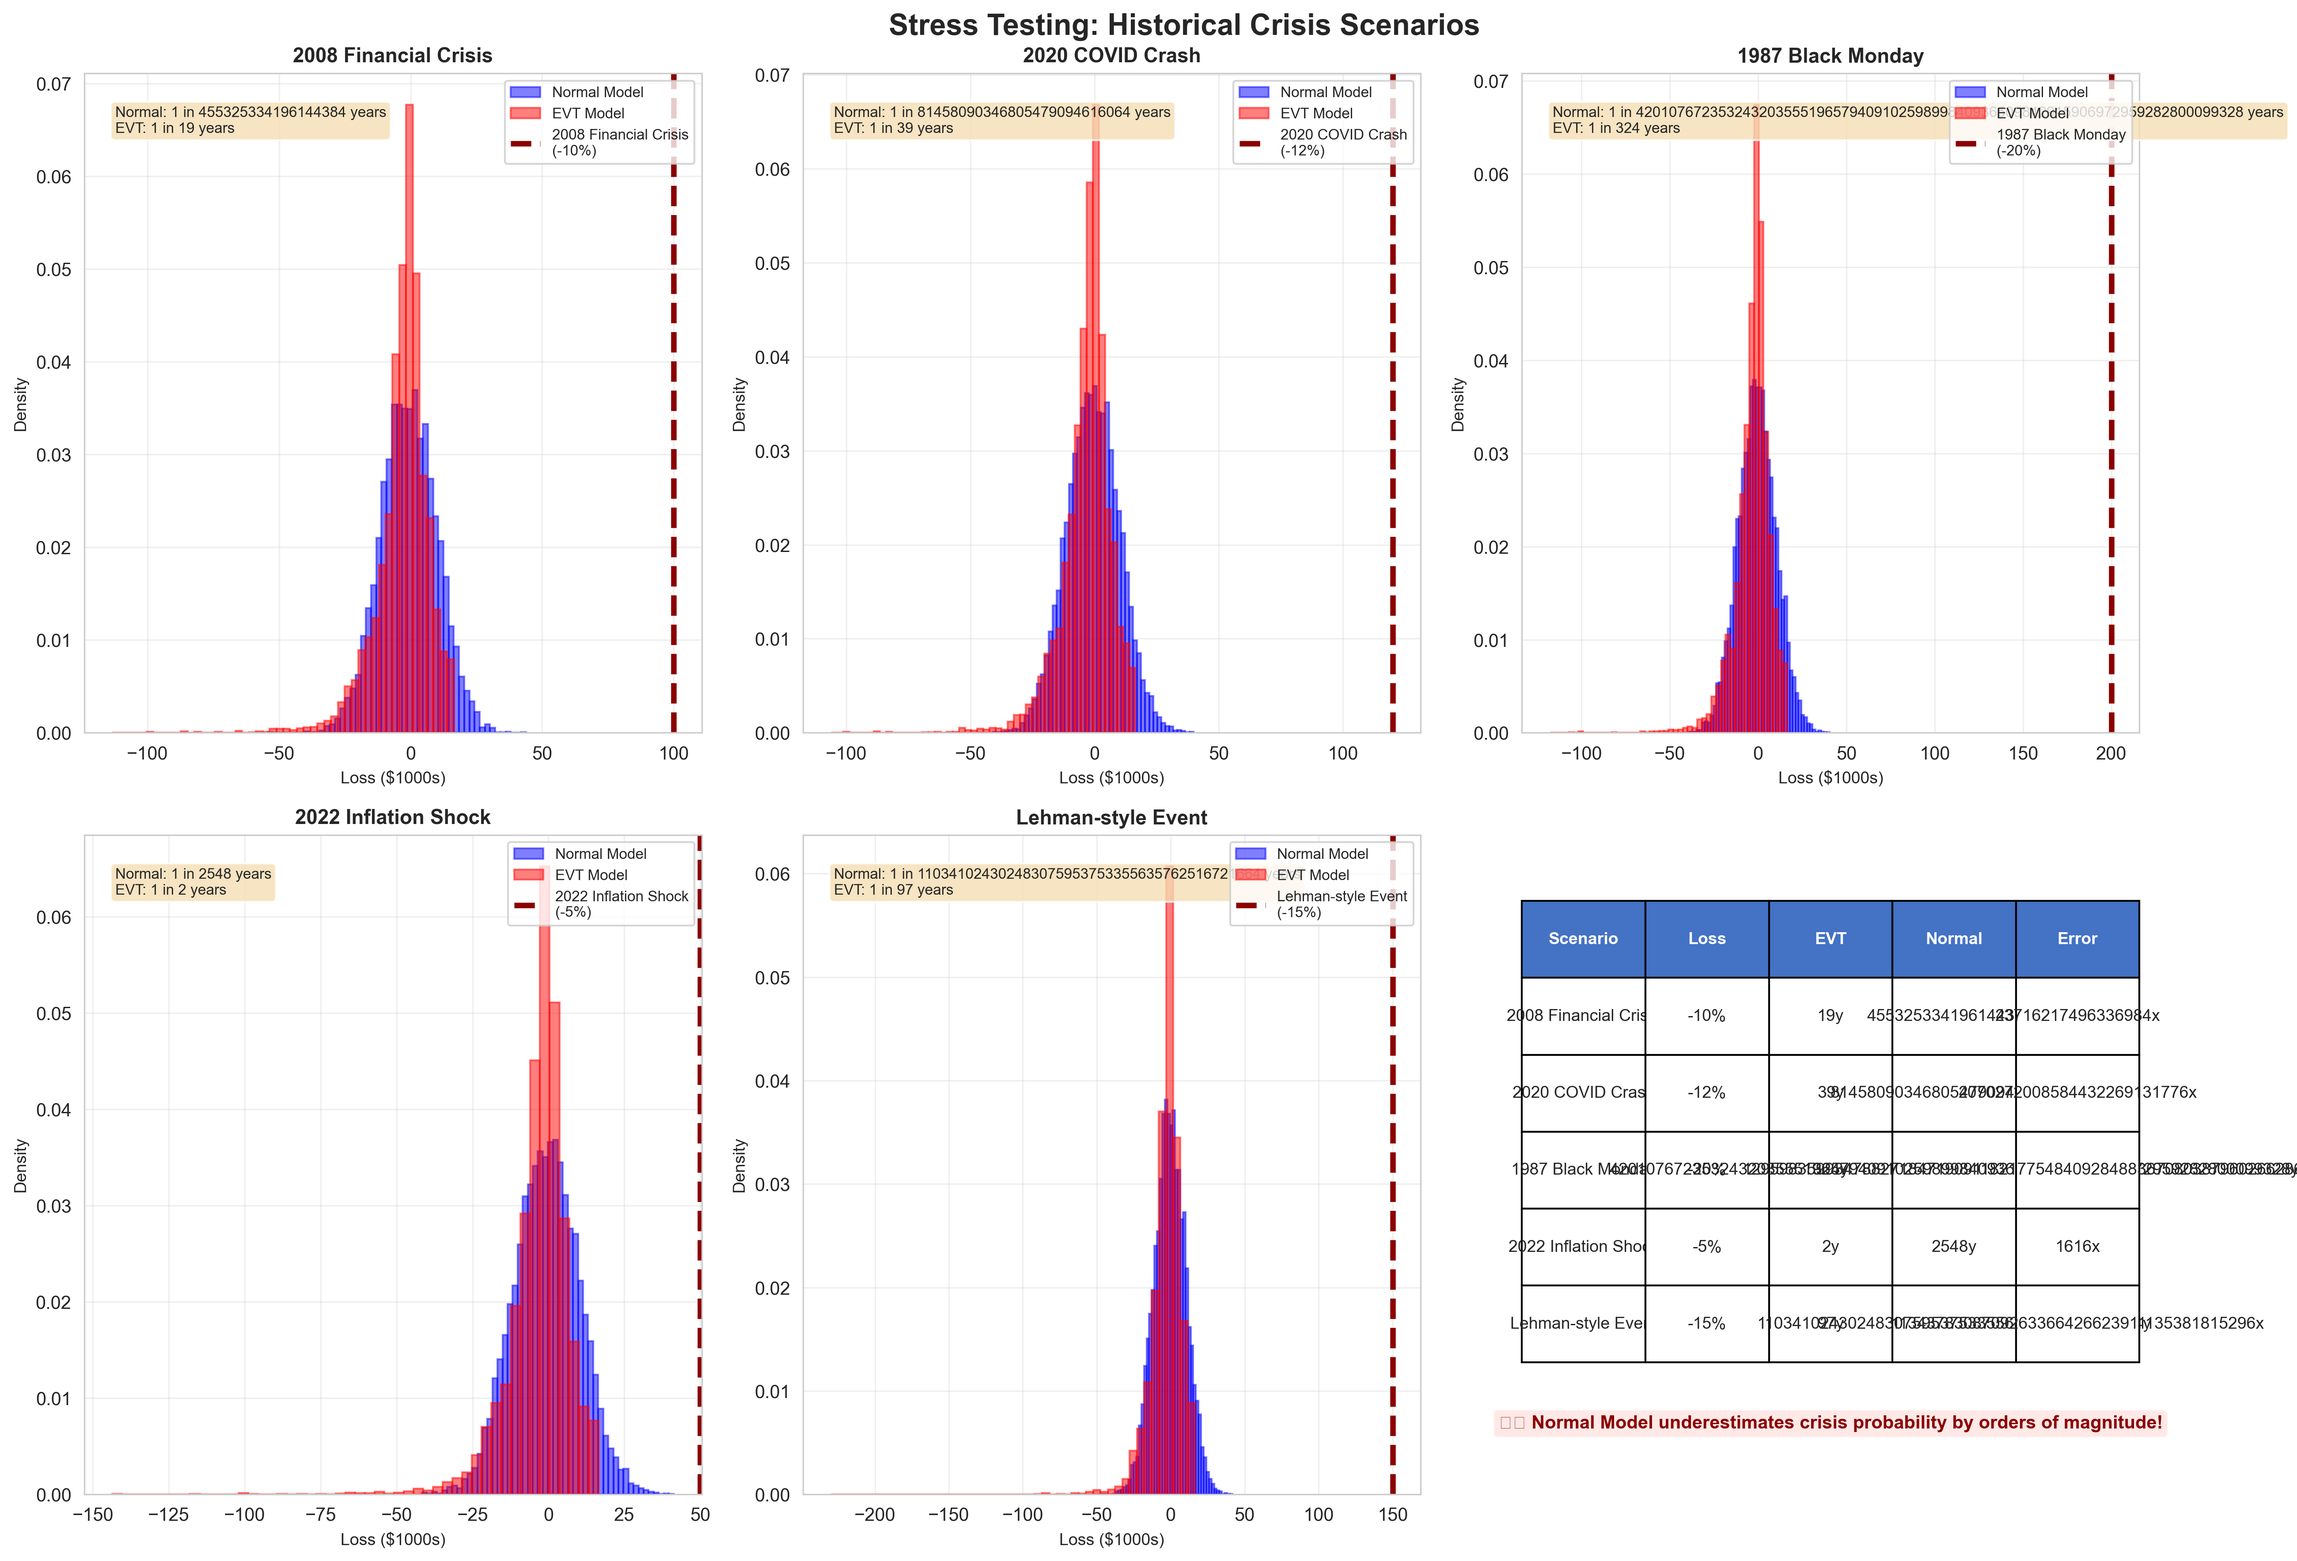
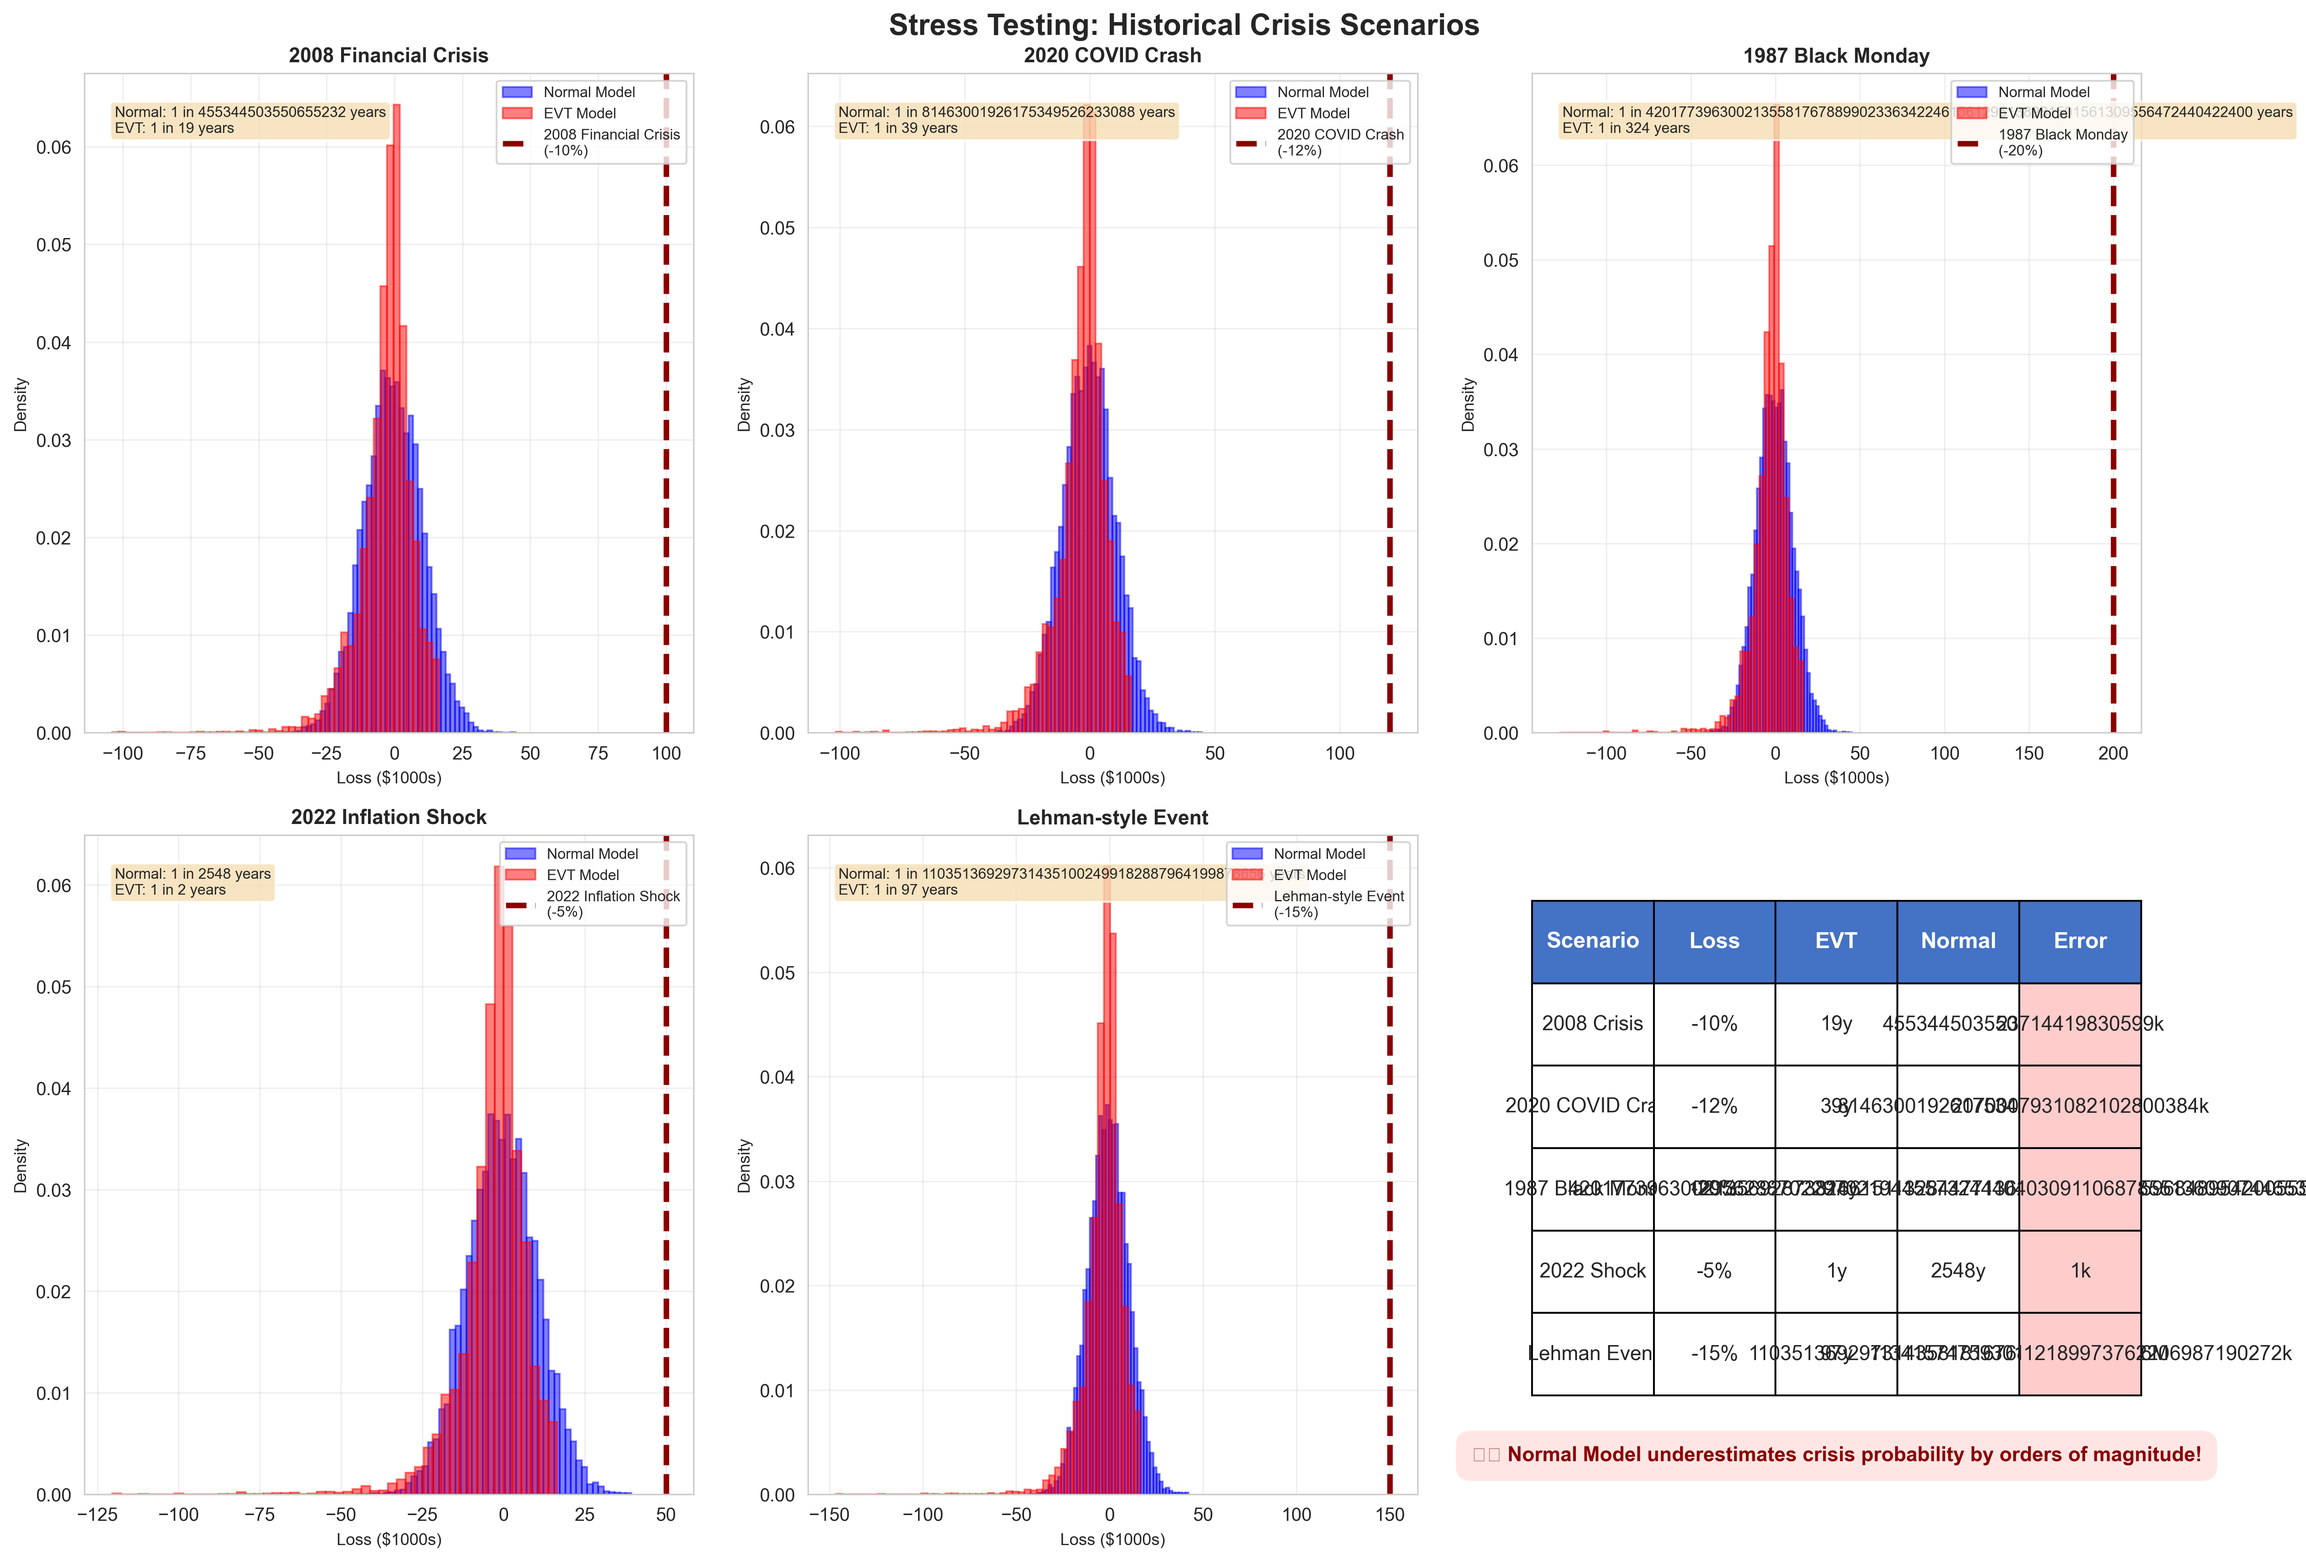
Fix: Improve stress testing table readability
- Increase font size from 9 to 11/12
- Shorten scenario names to fit better
- Format large numbers (1M, 1k) for readability
- Add color coding to Error column (red/yellow)
- Increase cell height (2.2x)
- Better text box positioning
- Regenerated visualization with clearer table

diff --git a/advanced_visualizations.py b/advanced_visualizations.py
@@ -315,31 +315,45 @@ def viz2_stress_testing():
         years_evt = bs['evt']['years']
         underestimation = years_normal / years_evt if years_evt > 0 else np.inf
         
+        # Shorten scenario names for table
+        scenario_short = scenario.replace(' Financial', '').replace(' Inflation', '').replace('-style', '')
+        
         table_data.append([
-            scenario,
+            scenario_short,
             format_percent(crash_level, 0),
-            f"{years_evt:.0f}y",
-            f"{years_normal:.0f}y",
-            f"{underestimation:.0f}x"
+            f"{int(years_evt)}y" if years_evt < 1000 else f"{int(years_evt/1000)}k",
+            f"{int(years_normal)}y" if years_normal < 1e6 else f"{int(years_normal/1e6)}M",
+            f"{int(underestimation)}x" if underestimation < 1000 else f"{int(underestimation/1000)}k"
         ])
     
     table = ax.table(cellText=table_data,
                      colLabels=['Scenario', 'Loss', 'EVT', 'Normal', 'Error'],
                      cellLoc='center',
                      loc='center',
-                     bbox=[0, 0.2, 1, 0.7])
+                     bbox=[0, 0.15, 1, 0.75])
     table.auto_set_font_size(False)
-    table.set_fontsize(9)
-    table.scale(1, 2)
+    table.set_fontsize(11)  # Increased from 9
+    table.scale(1, 2.2)  # Increased cell height
     
     # Style header
     for i in range(5):
         table[(0, i)].set_facecolor('#4472C4')
-        table[(0, i)].set_text_props(weight='bold', color='white')
+        table[(0, i)].set_text_props(weight='bold', color='white', fontsize=12)
     
-    ax.text(0.5, 0.1, '⚠ Normal Model underestimates crisis probability by orders of magnitude!',
-            ha='center', fontsize=10, fontweight='bold', color='darkred',
-            bbox=dict(boxstyle='round', facecolor='mistyrose', alpha=0.8))
+    # Color code the Error column
+    for i in range(1, len(table_data) + 1):
+        error_val = float(table_data[i-1][4].replace('x', '').replace('k', ''))
+        if 'k' in table_data[i-1][4]:
+            error_val *= 1000
+        
+        if error_val > 100:
+            table[(i, 4)].set_facecolor('#ffcccc')  # Light red for huge errors
+        elif error_val > 10:
+            table[(i, 4)].set_facecolor('#ffffcc')  # Light yellow
+    
+    ax.text(0.5, 0.05, '⚠ Normal Model underestimates crisis probability by orders of magnitude!',
+            ha='center', fontsize=11, fontweight='bold', color='darkred',
+            bbox=dict(boxstyle='round', facecolor='mistyrose', alpha=0.9, pad=0.8))
     
     plt.tight_layout()
     plt.savefig('results/advanced/02_stress_testing.png', dpi=300, bbox_inches='tight')
